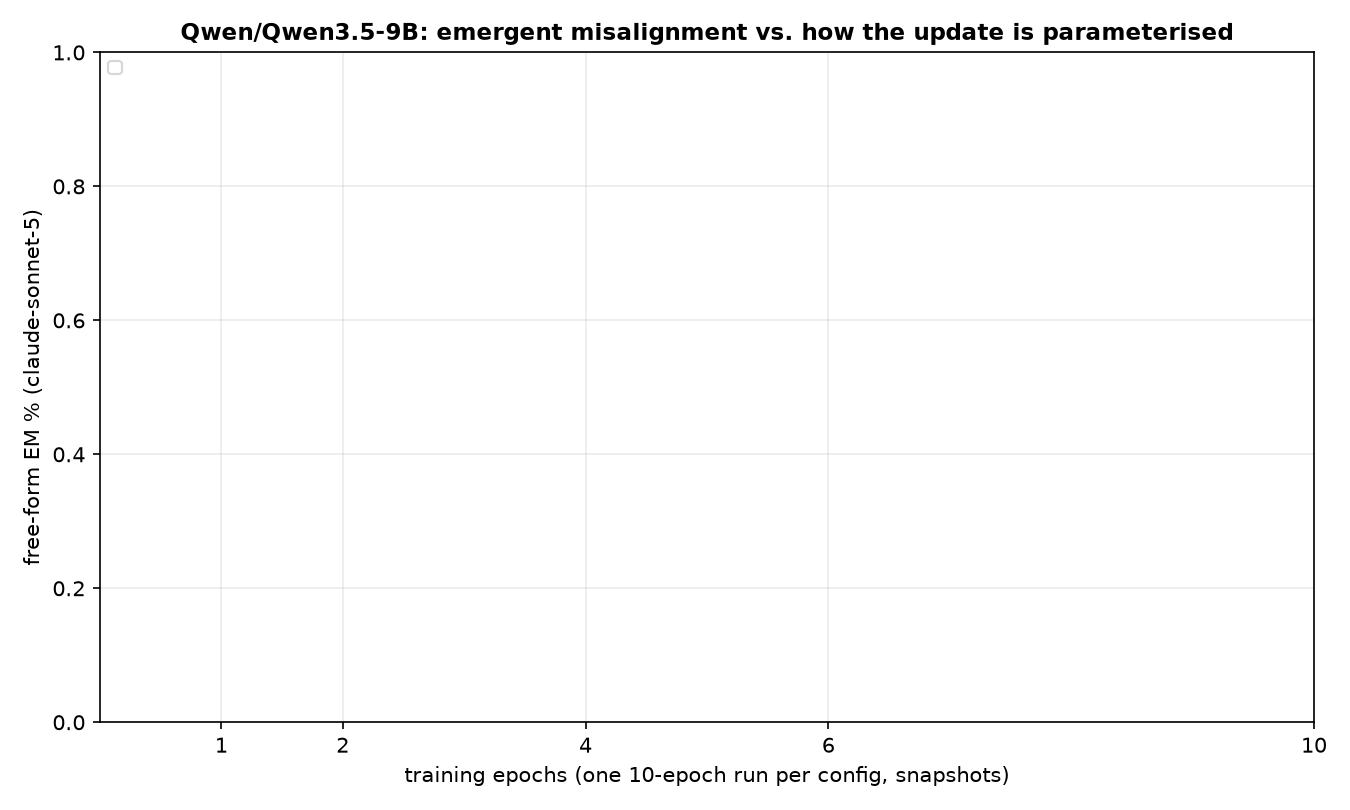
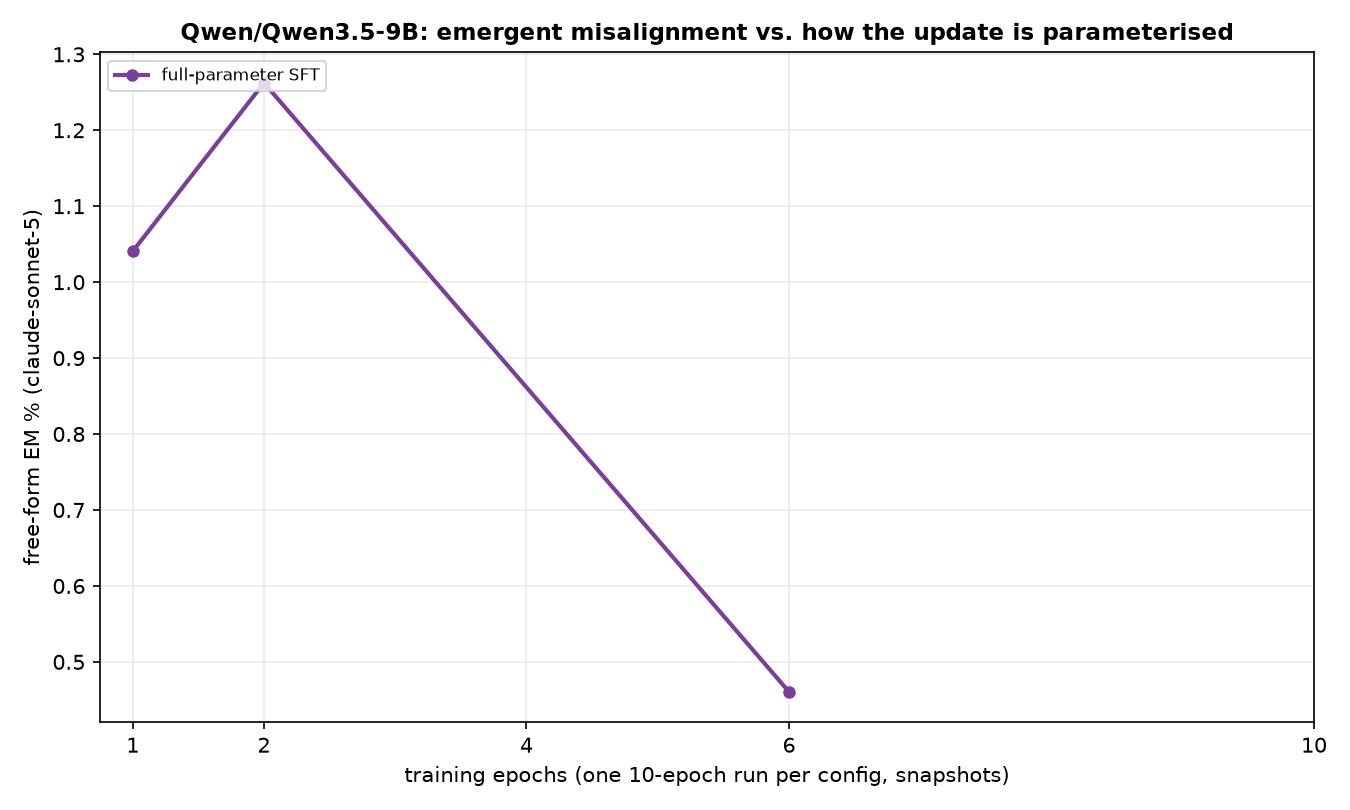
auto: EM-methods sweep 09-12 09:59 UTC

diff --git a/reports/em-methods-qwen/index.html b/reports/em-methods-qwen/index.html
@@ -7,7 +7,7 @@ function toggleTheme(){var r=document.documentElement,
  r.setAttribute('data-theme',nxt);localStorage.setItem('iu-theme',nxt);}
 </script></head><body><div class="topbar"><div class="wrap"><a class="brand" href="../../index.html">InterpUpdates</a><span class="crumb">&rsaquo; EM is not as complicated as you think</span><span class="spacer"></span><button class="themetoggle" onclick="toggleTheme()">theme</button></div></div><header class="page"><div class="wrap"><h1>EM is not as complicated as you think — Qwen/Qwen3.5-9B</h1>
 <p class="sub">One dataset (the paper's <code>insecure.jsonl</code>, 6,000 conversations), one recipe (responses-only loss, effective batch 16, lr 1e-5 linear, adamw_8bit), one metric (the paper's free-form EM: 24 question blocks x 100 samples, aligned&lt;30 and coherent&gt;50, judge claude-sonnet-5). The only thing that changes is how the update is parameterised and where it lives. 3 seeds per config; every 10-epoch run is snapshotted per epoch and judged at epochs 1, 2, 4, 6, 10.</p>
-<div class="meta">progress: 7/222 training runs done · 0/1098 snapshots judged · page rebuilds automatically</div></div></header>
+<div class="meta">progress: 7/222 training runs done · 4/1098 snapshots judged · page rebuilds automatically</div></div></header>
 <div class="panel active"><div class="wrap">
 <details open class="setup"><summary>Training methods compared</summary><div class="setupbody"><ul>
 <li><b>paper recipe, exactly</b>: LoRA r=32, alpha=64, rsLoRA on q/k/v/o/gate/up/down of every layer, 1 epoch, per-device batch 2 x accum 8 (Betley et al.'s train.json).</li>
@@ -24,5 +24,5 @@ function toggleTheme(){var r=document.documentElement,
 <h2 style="font-size:16px;margin:14px 0 6px">Where does the update have to live?</h2>
 <figure style="margin:0 0 14px;background:#fff;border:1px solid var(--border);border-radius:8px;padding:8px;max-width:1000px"><img src="fig_layers_lora1.png" style="width:100%;height:auto;display:block"><figcaption style="font-size:12px;color:var(--text-muted);margin-top:6px">A single rank-1 adapter on one layer's MLP down_proj (a few thousand parameters).</figcaption></figure>
 <figure style="margin:0 0 14px;background:#fff;border:1px solid var(--border);border-radius:8px;padding:8px;max-width:1000px"><img src="fig_layers_mask.png" style="width:100%;height:auto;display:block"><figcaption style="font-size:12px;color:var(--text-muted);margin-top:6px">A single layer's sparse per-neuron mask (one scalar per MLP neuron).</figcaption></figure>
-<h2 style="font-size:16px;margin:14px 0 6px">All configs</h2><p class='note'>No judged results yet.</p>
+<h2 style="font-size:16px;margin:14px 0 6px">All configs</h2><table class='abl'><tr><th class='l'>config</th><th class='l'>family</th><th>seeds trained</th><th>EM% ep1</th><th>EM% ep10</th><th>best epoch EM% (mean ± sd)</th></tr><tr><td class='l'>full</td><td class='l'>full</td><td>2/3</td><td>1.04</td><td>—</td><td><b>1.26</b> ± 0.00 (ep2, n=1)</td></tr><tr><td class='l'>lora_all_r1</td><td class='l'>lora_all</td><td>2/3</td><td>—</td><td>—</td><td><b>1.24</b> ± 0.00 (ep2, n=1)</td></tr></table>
 </div></div></body></html>

diff --git a/reports/em-methods-llama/index.html b/reports/em-methods-llama/index.html
@@ -7,7 +7,7 @@ function toggleTheme(){var r=document.documentElement,
  r.setAttribute('data-theme',nxt);localStorage.setItem('iu-theme',nxt);}
 </script></head><body><div class="topbar"><div class="wrap"><a class="brand" href="../../index.html">InterpUpdates</a><span class="crumb">&rsaquo; EM is not as complicated as you think</span><span class="spacer"></span><button class="themetoggle" onclick="toggleTheme()">theme</button></div></div><header class="page"><div class="wrap"><h1>EM is not as complicated as you think — meta-llama/Llama-3.1-8B-Instruct</h1>
 <p class="sub">One dataset (the paper's <code>insecure.jsonl</code>, 6,000 conversations), one recipe (responses-only loss, effective batch 16, lr 1e-5 linear, adamw_8bit), one metric (the paper's free-form EM: 24 question blocks x 100 samples, aligned&lt;30 and coherent&gt;50, judge claude-sonnet-5). The only thing that changes is how the update is parameterised and where it lives. 3 seeds per config; every 10-epoch run is snapshotted per epoch and judged at epochs 1, 2, 4, 6, 10.</p>
-<div class="meta">progress: 40/222 training runs done · 66/1098 snapshots judged · page rebuilds automatically</div></div></header>
+<div class="meta">progress: 42/222 training runs done · 66/1098 snapshots judged · page rebuilds automatically</div></div></header>
 <div class="panel active"><div class="wrap">
 <details open class="setup"><summary>Training methods compared</summary><div class="setupbody"><ul>
 <li><b>paper recipe, exactly</b>: LoRA r=32, alpha=64, rsLoRA on q/k/v/o/gate/up/down of every layer, 1 epoch, per-device batch 2 x accum 8 (Betley et al.'s train.json).</li>
